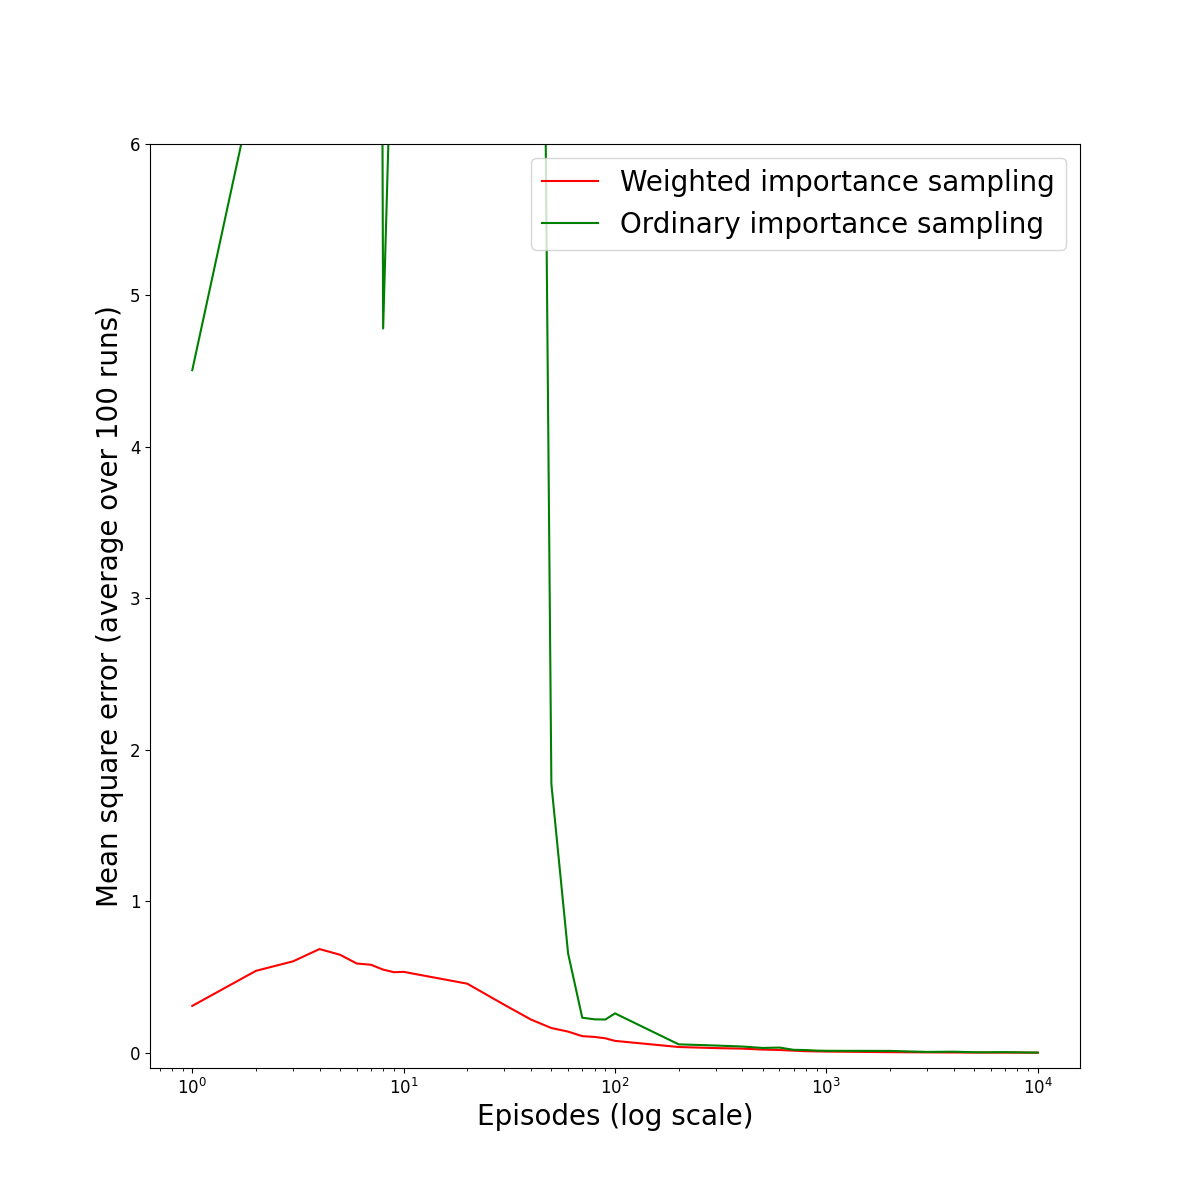
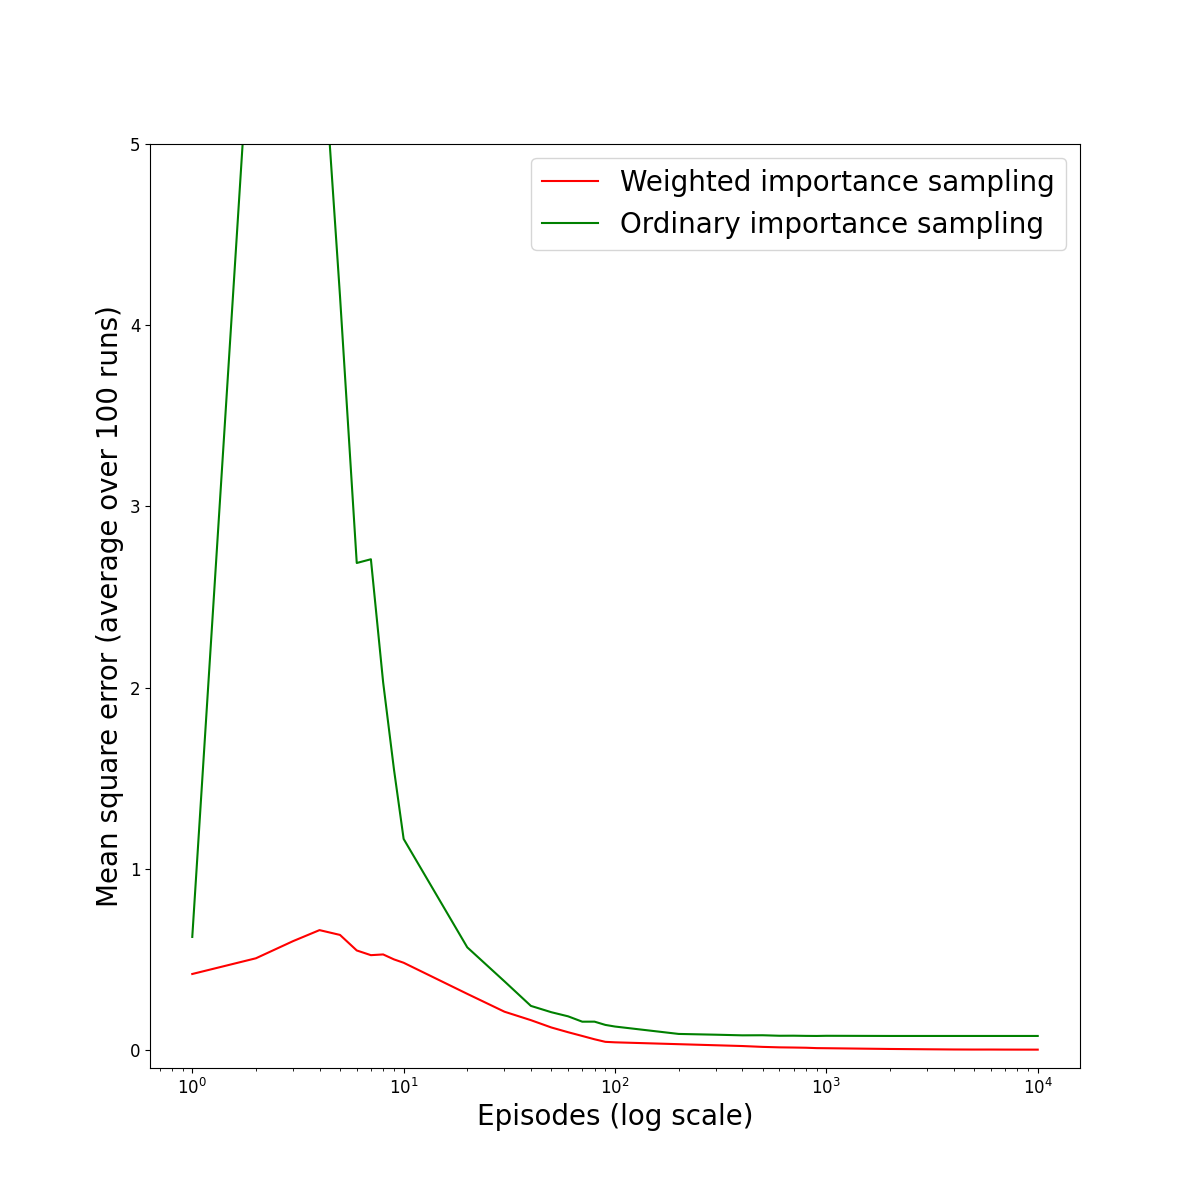
Fix off_policy_ordinary_predict

diff --git a/chapter5/main.py b/chapter5/main.py
@@ -151,7 +151,7 @@ def figure_5_3(figsize=(12, 12)):
     ax.plot(iters_arr, err_w, color="red", label="Weighted importance sampling")
     ax.plot(iters_arr, err_o, color="green", label="Ordinary importance sampling")
     ax.set_xscale("log")
-    ax.set_ylim([-0.1, 6])
+    ax.set_ylim([-0.1, 5.0])
     ax.legend(fontsize=20)
     ax.set_ylabel("Mean square error (average over 100 runs)", size=20)
     ax.set_xlabel("Episodes (log scale)", size=20)
@@ -164,16 +164,7 @@ def figure_5_4(figsize=(12, 12)):
 
     target_policy = np.zeros((1,), dtype=np.int32)
 
-    # mc = MonteCarloController(env)
-    # mc.off_policy_ordinary_predict(
-    #     target_policy,
-    #     epsilon=1.0,
-    #     iters=10000,
-    #     disable_tqdm=True,
-    # )
-    # print(mc.Q, mc.V)
-
-    iters_base = [10 ** x for x in range(6)]
+    iters_base = [10 ** x for x in range(7)]
     iters_arr = np.unique(
         np.concatenate(
             [
@@ -183,7 +174,7 @@ def figure_5_4(figsize=(12, 12)):
         )
     )
     iters_run = [iters_arr[0]] + np.diff(iters_arr).tolist()
-    runs = 3
+    runs = 10
 
     controllers = [MonteCarloController(env) for _ in range(runs)]
     run_Vs = []
@@ -200,18 +191,23 @@ def figure_5_4(figsize=(12, 12)):
         run_Vs.append(iter_Vs)
 
     run_Vs = np.array(run_Vs)
-    print(run_Vs)
 
     fig = plt.figure(figsize=figsize)
     ax = fig.add_subplot(111)
 
     ax.plot(iters_arr, run_Vs)
     ax.set_xscale("log")
+    ax.set_ylabel(
+        "Monte-Carlo estimate of $v_\\pi(s)$ with ordinary importance sampling (ten runs)",
+        size=20,
+    )
+    ax.set_xlabel("Episodes (log scale)", size=20)
+    ax.set_ylim([-0.1, 4.0])
     fig.savefig("figure_5_4.png", dpi=100)
 
 
 if __name__ == "__main__":
-    # figure_5_1()
-    # figure_5_2()
-    # figure_5_3()
+    figure_5_1()
+    figure_5_2()
+    figure_5_3()
     figure_5_4()

diff --git a/chapter5/controller.py b/chapter5/controller.py
@@ -147,18 +147,16 @@ class MonteCarloController:
                 G += trajectory[i + 1].reward
                 _, s, a, _ = trajectory[i]
                 s_a_idx = self.state_action_to_idx(s, a)
-                # self.Q[s_a_idx] += (G - self.Q[s_a_idx]) * (W / (it + 1))
-                if self.Q_reg.get(s_a_idx, None) is None:
-                    self.Q_reg[s_a_idx] = [G * W]
-                else:
-                    self.Q_reg[s_a_idx].append(G * W)
+                self.N[s_a_idx] += 1
                 W *= float(target_policy[s_a_idx[:-1]] == a) / b_policy[s_a_idx]
-                if W == 0.0:
-                    break
+                if W != 0.0:
+                    if self.Q_reg.get(s_a_idx, None) is None:
+                        self.Q_reg[s_a_idx] = [G * W]
+                    else:
+                        self.Q_reg[s_a_idx].append(G * W)
 
-        self.cum_iters += iters
         for key in self.Q_reg.keys():
-            self.Q[key] = np.sum(self.Q_reg[key]) / self.cum_iters
+            self.Q[key] = np.sum(self.Q_reg[key]) / self.N[key]
 
     def off_policy_improvement(
         self,
